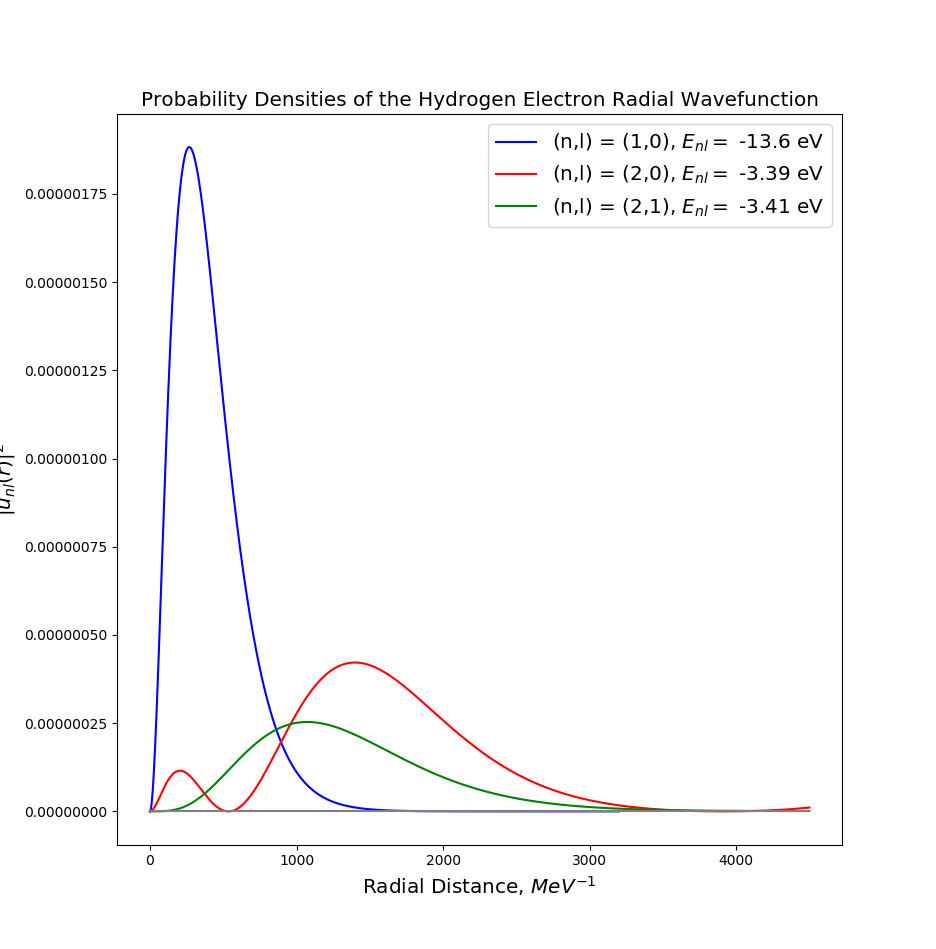
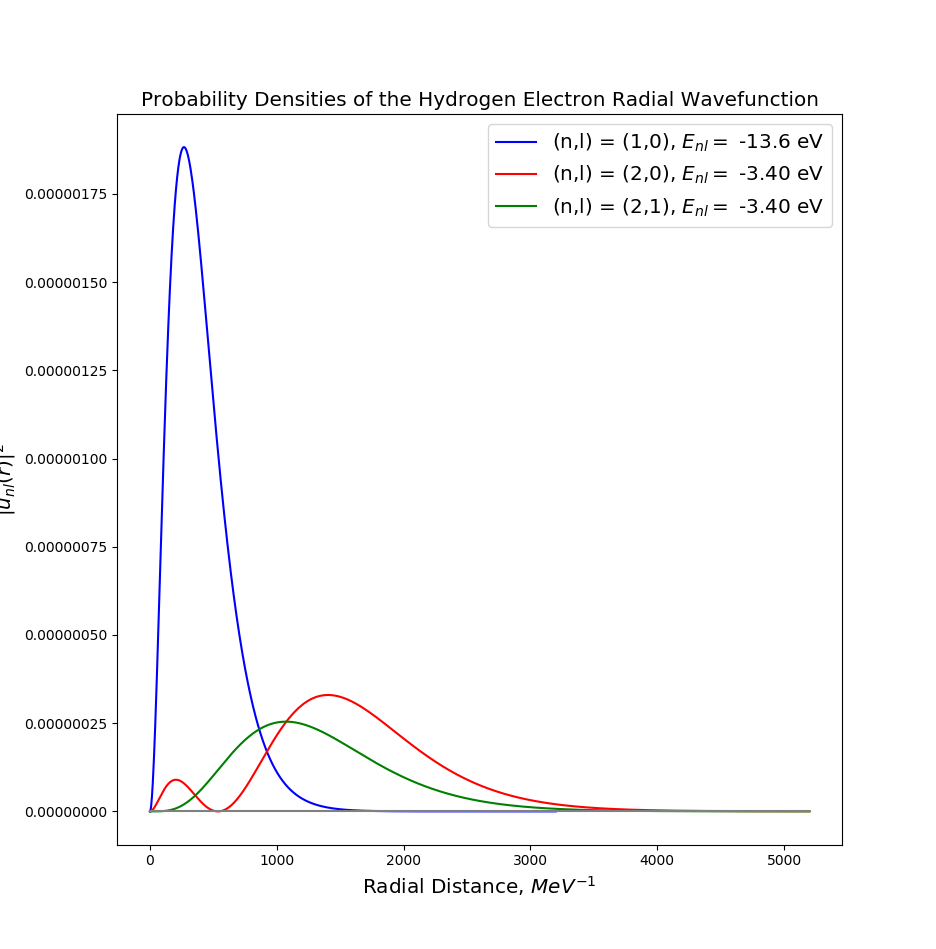
fixed accuracies

diff --git a/hydrogen.py b/hydrogen.py
@@ -3,77 +3,52 @@ import numpy as np
 import math
 from scipy.integrate import odeint, simps
 import matplotlib.pyplot as plt
-from hfns import wavefn, turningpoints, nodes, itera, normaliser, sqr, simpson
+from hfnsave import wavefn, turningpoints, nodes, itera, normaliser, sqr, simpson
 
 u0 = [0, 1] #array of u and du/dr vals at 0
 
-#n = float(input("n = "))
-#l = float(input("l = "))
 r1 = np.linspace(0.001, 3200, 1000)
-r2 = np.linspace(0.001, 4500, 1000)
+r2 = np.linspace(0.001, 5200, 1000)
 
 step1 = r1[1] - r1[0] #step size for normalisation
 step2 = r2[1] - r2[0]
 mu = 0.511
 alpha = 1/137
 beta = 0
-#if n == 1:
+
 E11 = 1e-5
 E12 = 2.5e-5
 E13 = 5e-5
-#elif n == 2 and l == 0:
+
 E01 = 3e-6
 E02 = 3.5e-6
 E03 = 4e-6
-#elif n == 2 and l == 1:
+
 E21 = 3e-6
 E22 = 3.25e-6
 E23 = 3.5e-6
-#elif n == 3:
-#    E1 = 1e-6
-#    E2 = 1.5e-6
-#    E3 = 2e-6
-#elif n > 3 and n < 6:
-#    E1 = 0.5e-6
-#    E2 = 1.25e-6
-#    E3 = 2e-6
-#else:
-#    E1 = 1e-7
-#    E2 = 5e-7
-#    E3 = 1e-6
 
-sol_1, du_1, En_1 = itera(1, 0, E11, E12, E13, u0, alpha, beta, mu, r1, step1)
-sol_20, du_20, En_20 = itera(2, 0, E01, E02, E03, u0, alpha, beta, mu, r2, step2)
-sol_21, du_21, En_21 = itera(2, 1, E21, E22, E23, u0, alpha, beta, mu, r2, step2)
+sol_1, du1, En_1 = itera(1, 0, E11, E12, E13, u0, alpha, beta, mu, r1, step1)
+sol_20, du20, En_20 = itera(2, 0, E01, E02, E03, u0, alpha, beta, mu, r2, step2)
+sol_21, du21, En_21 = itera(2, 1, E21, E22, E23, u0, alpha, beta, mu, r2, step2)
 
-sol_1,du_1 = simpson(sol_1,du_1,1,0,r1)
-sol_20,du_20 = simpson(sol_20,du_20,2,0,r2)
-sol_21,du_21 = simpson(sol_21,du_21,2,1,r2)
+sol_1,du1 = simpson(sol_1,du1,1,0,r1)
+sol_20,du20 = simpson(sol_20,du20,2,0,r2)
+sol_21,du21 = simpson(sol_21,du21,2,1,r2)
 
 #statement(sol_1,1,0,r1,En_1)
 #statement(sol_20,2,0,r2,En_20)
 #statement(sol_21,2,1,r2,En_21)
 
-#sol_21 = sol_21*5e5
-#sol_20 = sol_20*2
-
 En_1 = En_1*-1e6
 En_20 = En_20*-1e6
 En_21 = En_21*-1e6
 
+print sol_21
+
 pr1 = sqr(sol_1)
 pr20 = sqr(sol_20)
 pr21 = sqr(sol_21)
-
-#for i in range(len(r2)):
-#    if r2[i] > 3800:
-#        cut_off = i
-#        break
-#r2 = r2[:cut_off]
-#sol_20 = sol_20[:cut_off]
-#sol_21 = sol_21[:cut_off]
-#pr20 = pr20[:cut_off]
-#pr21 = pr21[:cut_off]
 
 f1 = plt.figure(1,figsize=(8,6))
 plt.plot(r1, sol_1, 'b',label="(n,l) = (1,0), $E_{nl} =$ %.1f eV" % En_1)

diff --git a/hfnsave.py b/hfnsave.py
@@ -25,9 +25,9 @@ def turningpoints(r, u, n, l):
     if n == 1:
         tolerance = 1e-14
     elif n == 2 and l == 0:
-        tolerance = 1e-11
+        tolerance = 1e-12
     else:
-        tolerance = 5e-18
+        tolerance = 1e-18
     for i in range(len(u)-2): #maybe look at specifying this more?
         if u[i] - u[i+1] < -1*tolerance and u[i+2] - u[i+1] < -1*tolerance:
             maxs += 1
